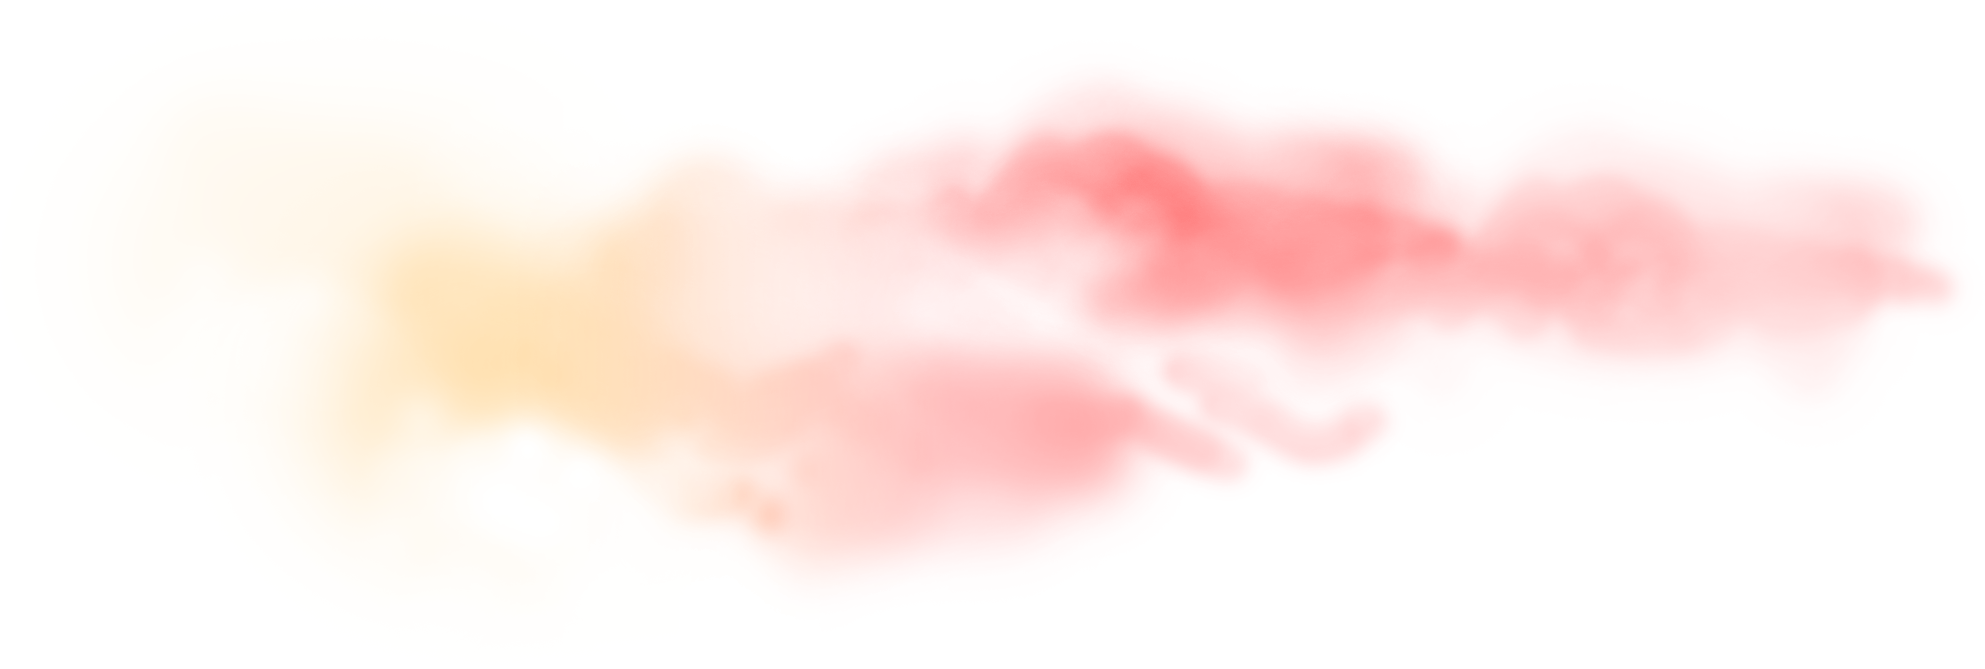
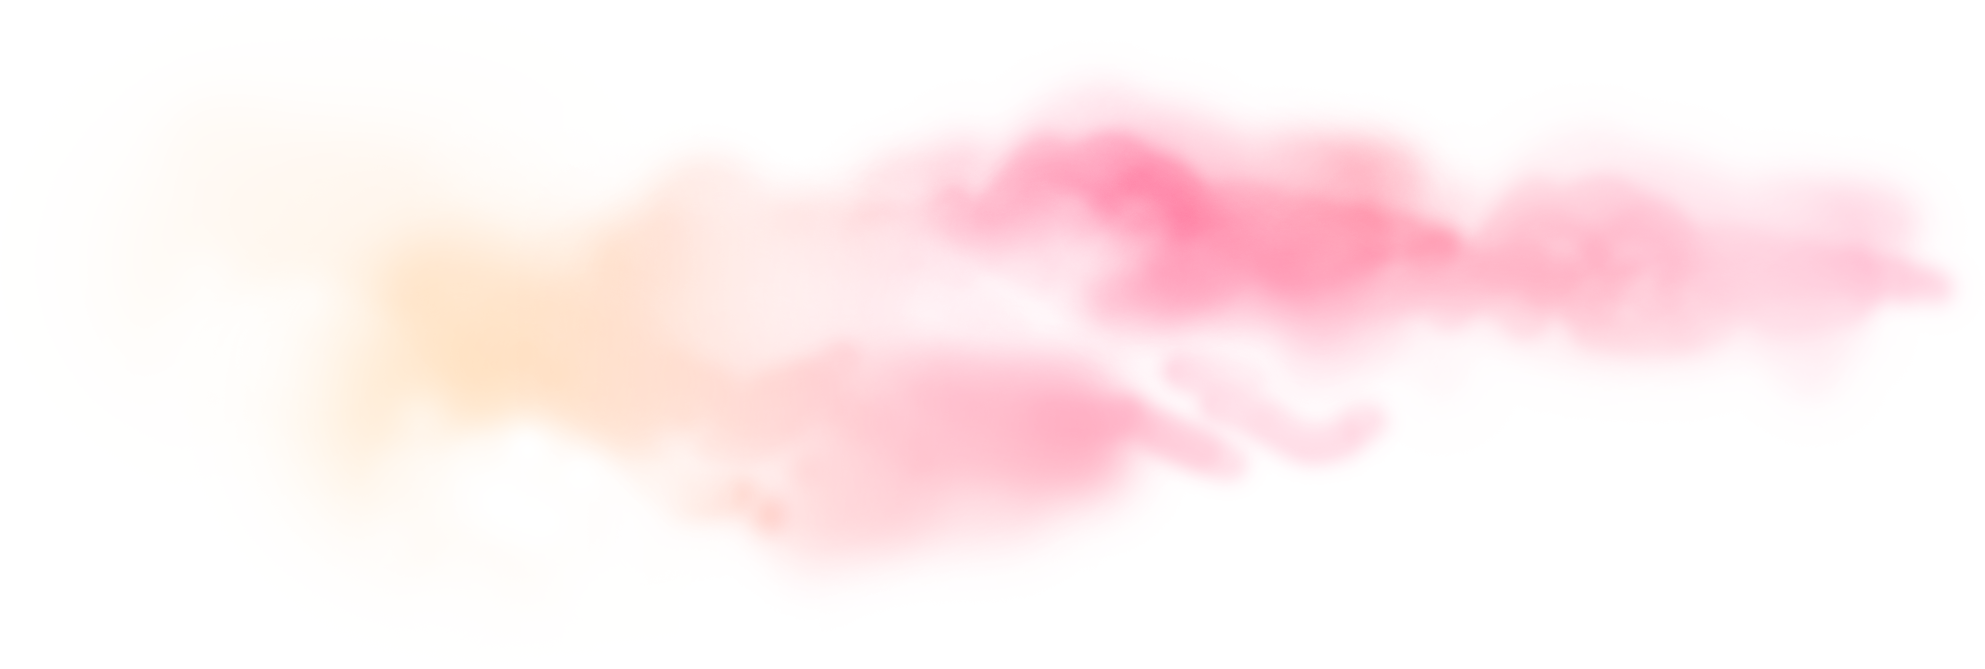
Fixed javascript and modified clouds a bit.

Changed region(s): [[0.4997, 0.2093, 0.7184, 0.4484]]

diff --git a/assets/js/carlos.js b/assets/js/carlos.js
@@ -286,7 +286,7 @@ function refreshUnlockedContent()
 function messWithBG()
 {
     //$(.css('background-image', "linear-gradient(to right, #ff22b2, #ffb400)");
-   
+
 }
 //changes the score data.
 function refreshContent()
@@ -400,11 +400,11 @@ window.onload = function(e){
   refreshContent();
   var counter = 100.0;
   var direction = -1;
-  
+
 setInterval(function(){
     counter = counter+direction*0.01;
     //console.log("Counter:"+counter);
-    if(counter == 100.0)
+    if(counter > 100.0)
     {
         direction = -1;
     }
@@ -415,7 +415,7 @@ setInterval(function(){
     }
      document.body.style.backgroundImage = "linear-gradient(180deg, #fff 0%, #0c0c0ceb 100%),linear-gradient(231.28deg, #e100ff 0%, #000 "+counter+"%),linear-gradient(180deg, #5200FF 0%, #1A0050 "+counter+"%),linear-gradient(341.1deg, red 7.52%, #1700A4 77.98%),radial-gradient(49.82% 80.51% at 49.82% 50%, #5A0069 0%, #FF3D00 100%),radial-gradient(50% 72.12% at 50% 50%, #EB00FF 0%, #105 100%)";
     }, 6);
-   
-    
+
+
 
 }

diff --git a/_includes/grid.html b/_includes/grid.html
@@ -39,5 +39,4 @@
 </div>
 
 <div class="stars"></div>
-<div class="starsB"></div>
 <div class="clouds"></div>
